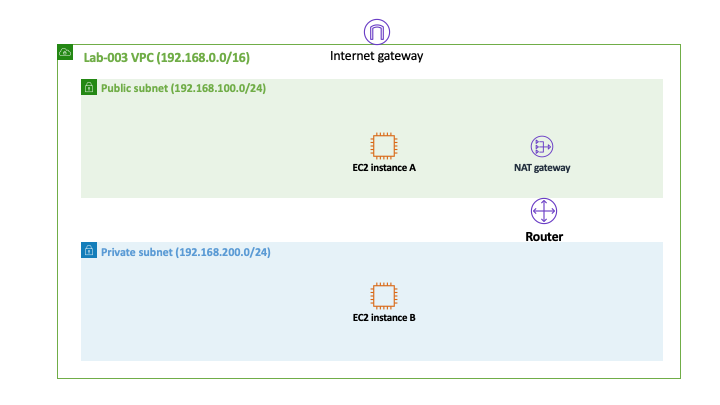
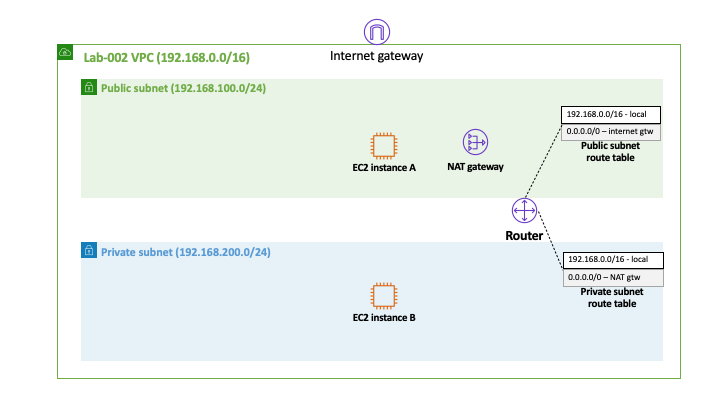
lab-003 udpates

Changed region(s): [[0.6111, 0.237, 0.9167, 0.4444], [0.7639, 0.6222, 0.9472, 0.7704], [0.7028, 0.4741, 0.7944, 0.5926]]

diff --git a/lab-003/README.md b/lab-003/README.md
@@ -11,7 +11,7 @@ Original Author(s): [Thyago Mota](https://github.com/thyagomota)
 Contributor(s): [João Marcelo](https://github.com/jmhal)
 
 ## Goal
-This lab illustrates how an EC2 instance running in a *private* subnet can be configure to access the internet with the help of a service called [Nat gateway](https://docs.aws.amazon.com/vpc/latest/userguide/vpc-nat-gateway.html).
+This lab illustrates how an EC2 instance running in a *private* subnet can be configured to access the internet with the help of a service called [Nat gateway](https://docs.aws.amazon.com/vpc/latest/userguide/vpc-nat-gateway.html).
 
 ## Architecture Diagram
 ![lab-003-arch-01](images/lab-003-arch-01.png)
@@ -20,26 +20,39 @@ This lab illustrates how an EC2 instance running in a *private* subnet can be co
 
 In order to achieve the goal of this lab, you will have to go through the following steps:
 
-1. Repeat all of the steps described in [lab-002](../lab-002).
-2.
+### Step 1 - Run Lab-002
+Repeat all of the steps described in [lab-002](../lab-002).
+
+### Step 2 - Create a NAT Gateway
+Create a [NAT gateway](https://docs.aws.amazon.com/vpc/latest/userguide/vpc-nat-gateway.html) in the public subnet.
+
+![lab-003-scrn-01](images/lab-003-scrn-01.png)
+![lab-003-scrn-02](images/lab-003-scrn-02.png)
+![lab-003-scrn-03](images/lab-003-scrn-03.png)
+
+### Step 3 - Create a Route Table
+Create a new route table with the *Name tag* private and with a default route to the NAT gateway created in step 2.
+
+![lab-003-scrn-04](images/lab-003-scrn-04.png)
+![lab-003-scrn-05](images/lab-003-scrn-05.png)
+![lab-003-scrn-06](images/lab-003-scrn-06.png)
+![lab-003-scrn-07](images/lab-003-scrn-07.png)
+![lab-003-scrn-08](images/lab-003-scrn-08.png)
+![lab-003-scrn-09](images/lab-003-scrn-09.png)
+![lab-003-scrn-10](images/lab-003-scrn-10.png)
+
+### Step 4 - Associate the Route Table to the Private Subnet
+Associate the newly created route table to the private subnet.
+
+![lab-003-scrn-11](images/lab-003-scrn-11.png)
+![lab-003-scrn-12](images/lab-003-scrn-12.png)
+![lab-003-scrn-13](images/lab-003-scrn-13.png)
+![lab-003-scrn-14](images/lab-003-scrn-14.png)
 
 
-
-## Test
-1. First add the EC2 key pair into your local ssh authentication agent using:
+## Test and Validation
+To validate this lab you need to access the EC2 instance in the private subnet (labeled as B) and from there try to access the internet, for example:
 
 ```
-ssh-add -K lab-002.pem (macos)
-ssh-add -c lab-002.pem (linux)
-```
-
-2. Then connect to the EC2 instance A but with ssh agent forwarding enabled:  
-
-```
-ssh -A ec2-user@<public-IP of A>
-```
-3. Finally, from EC2 instance A ssh to the EC2 instance B using its private IP address:
-
-```
-ssh <private-IP of B>
+curl www.google.com
 ```
